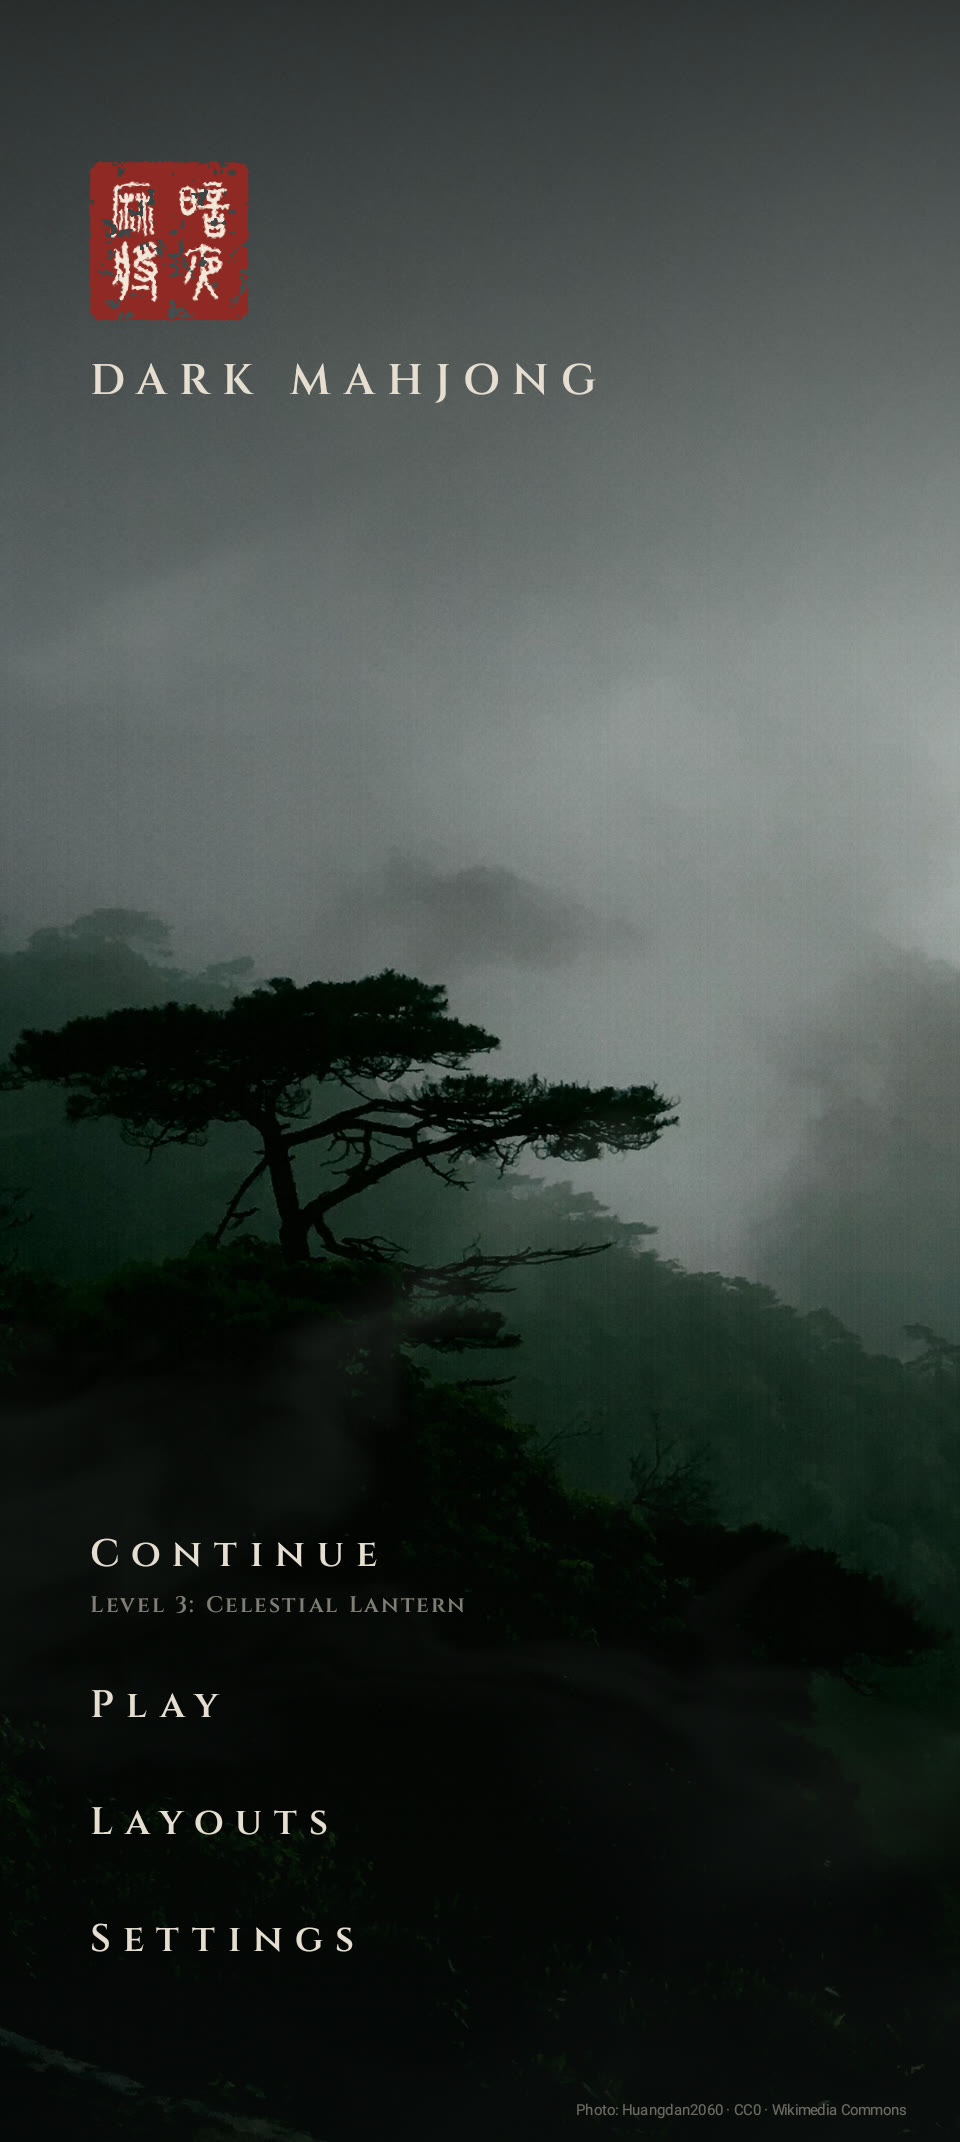
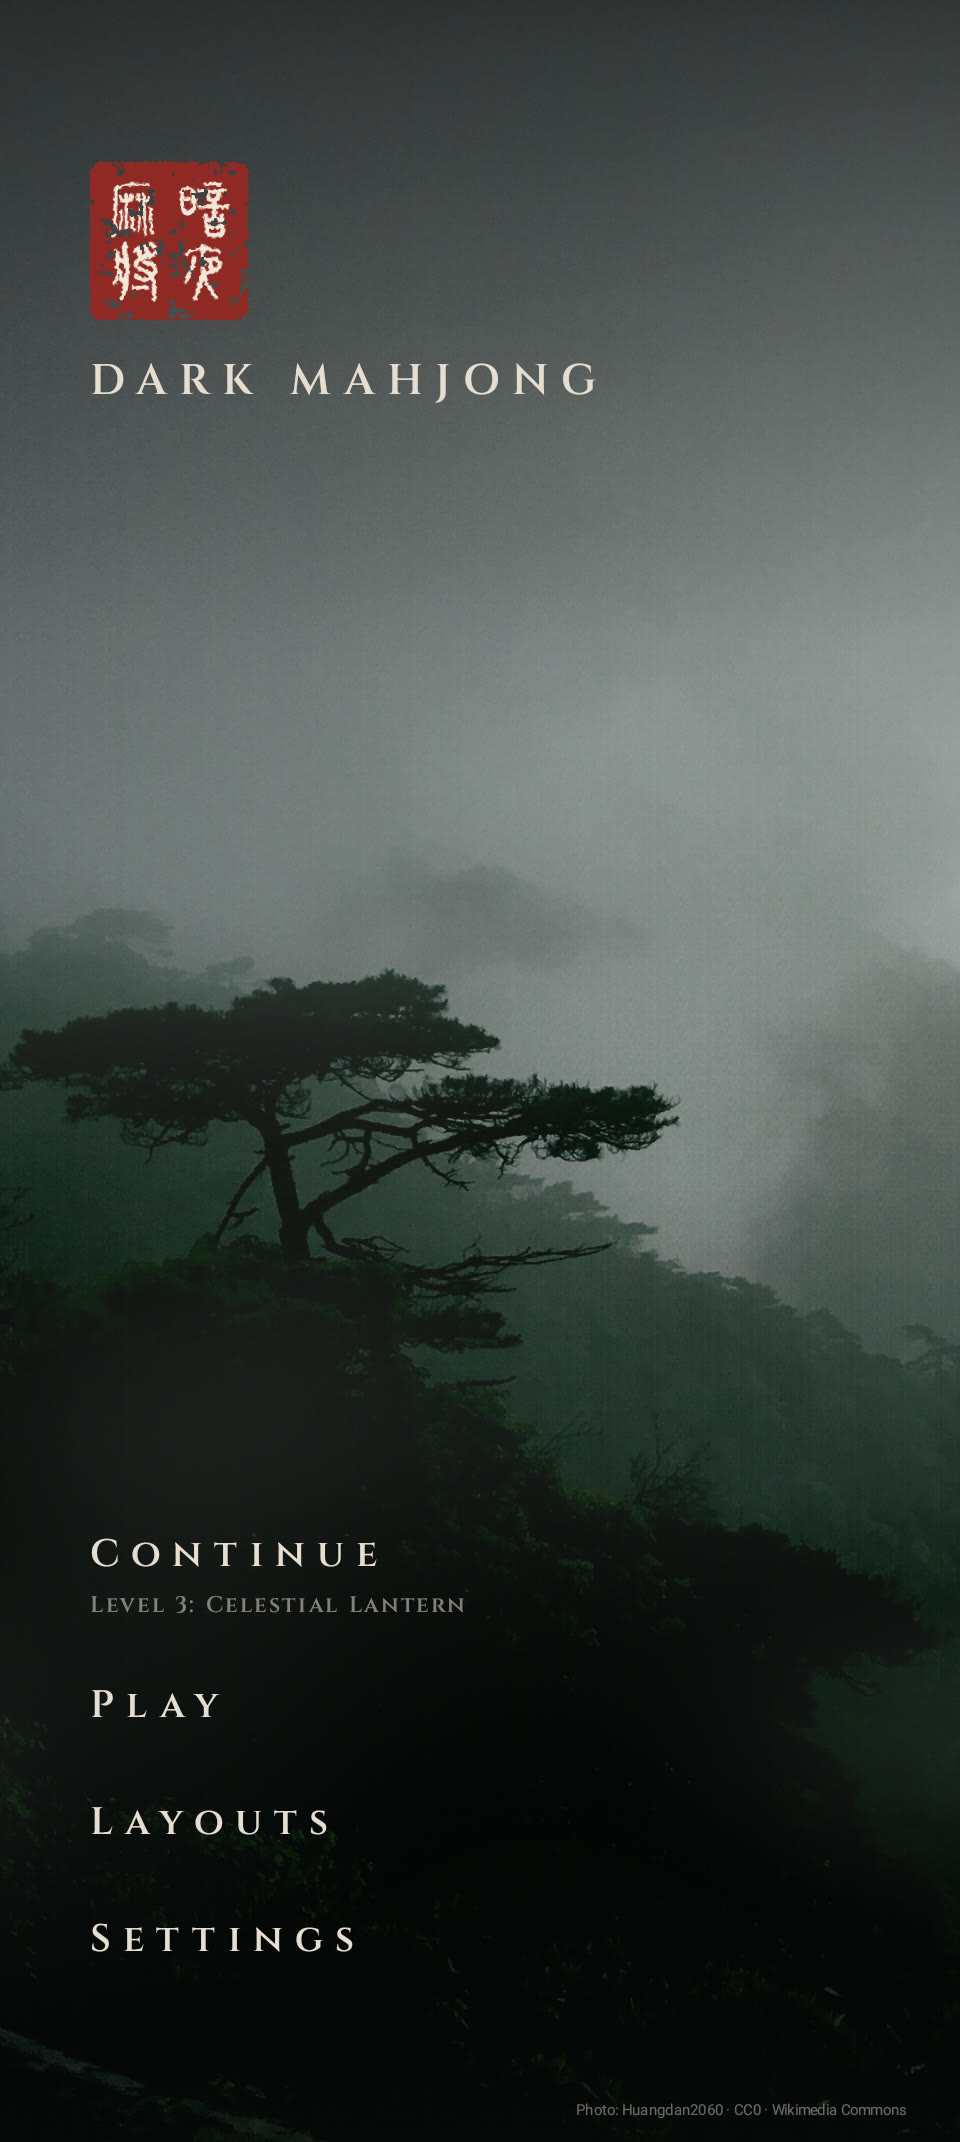
Title mist: large, soft banks drifting straight right to left
Rework the title fog after reviewing real-time samples: three layers of large,
soft mist masses (one to three screen-widths, gaps between them) that keep
their shape and travel slowly and straight from right to left, back layers
broader, paler and slower (parallax). No swirling folds and no bright wisps.
Sized and paced halfway between the two final samples. The fog-frames test
now renders 30 s at half-second steps for real-time clips; README title image
and fog animation refreshed.

Changed region(s): [[0.0, 0.4314, 0.5, 0.5238]]

diff --git a/app/src/main/java/com/vortessence/mahjong/ui/components/DriftingFog.kt b/app/src/main/java/com/vortessence/mahjong/ui/components/DriftingFog.kt
@@ -21,11 +21,12 @@ import kotlinx.coroutines.isActive
 import kotlin.math.roundToInt
 
 /**
- * Clouds of mist moving across the title photograph. Three layers at different depths and speeds
- * (broad slow banks behind, mid mist, quicker wisps in front), each billowing as it goes: its
- * shape is folded by noise fields that themselves evolve, so it churns rather than slides. Cloud
- * tops catch the sky's light, undersides are cooler; density becomes opacity the way real mist
- * thins (Beer-Lambert), so every edge is soft, and the band's own top and bottom are ragged.
+ * Large, soft masses of mist moving slowly and straight from right to left across the title
+ * photograph, in three layers composited back to front: each a procession of large masses (one to
+ * three screen-widths) with gaps between them; the furthest broadest, palest and slowest,
+ * nearer ones lower in the valley and a little quicker (parallax). Masses keep their shape as
+ * they travel (no swirling) and are soft and even, denser in their cores, with no bright wispy
+ * edges; each layer's top and bottom are ragged and travel with it.
  *
  * Fog has no fine detail, so it is rendered at a third of the screen resolution into its own
  * layer and smoothly scaled up, at about 30 fps. [startSeconds] fixes the moment shown, so
@@ -92,51 +93,64 @@ float vnoise(float2 p) {
                mix(hash21(i + float2(0.0, 1.0)), hash21(i + float2(1.0, 1.0)), u.x), u.y);
 }
 
+// Only broad octaves: large, soft masses with no fine wisps
 float fbm(float2 p) {
     float v = 0.0;
     float a = 0.5;
-    for (int i = 0; i < 5; i++) {
+    for (int i = 0; i < 3; i++) {
         v += a * vnoise(p);
-        p = p * 2.03 + float2(1.7, 9.2);
+        p = p * 2.07 + float2(1.7, 9.2);
         a *= 0.5;
     }
-    return v;
+    return v / 0.875;
 }
 
-// One cloud layer's density: drifting sideways while folding in on itself. The warp fields
-// evolve with time, so the cloud billows and churns instead of sliding as a fixed pattern
+// One layer of cloud masses. Each mass keeps its shape (a fixed, gentle warp gives it an
+// irregular outline) and the whole layer travels straight from right to left
 float cloud(float2 uv, float t, float speed, float scale, float seed) {
-    float2 q = float2(uv.x * scale + t * speed, uv.y * scale * 1.6 + seed);
-    float2 w1 = float2(fbm(q * 0.6 + float2(seed, t * 0.03)),
-                       fbm(q * 0.6 + float2(seed + 5.2, -t * 0.025)));
-    float2 w2 = float2(fbm(q + 2.0 * w1 + float2(1.7, 9.2) + t * 0.02),
-                       fbm(q + 2.0 * w1 + float2(8.3, 2.8) - t * 0.015));
-    return fbm(q + 2.2 * w2);
+    float2 q = float2(uv.x * scale + t * speed, uv.y * scale * 1.3 + seed);
+    float2 w = float2(fbm(q * 0.5 + seed) - 0.5, fbm(q * 0.5 + seed + 7.3) - 0.5) * 0.4;
+    return fbm(q + w);
+}
+
+// A band's weight at height y: soft, with ragged edges that travel with the clouds
+float band(float y, float lo, float hi, float2 uv, float t, float speed, float seed) {
+    float rag = (vnoise(float2(uv.x * 1.2 + t * speed + seed, 3.3)) - 0.5) * 0.16;
+    return smoothstep(lo - 0.16 + rag, lo + 0.14 + rag, y) * (1.0 - smoothstep(hi - 0.14 - rag, hi + 0.16 - rag, y));
+}
+
+// Composite one layer over what is behind it (premultiplied)
+float4 over(float4 back, float3 col, float a) {
+    return float4(col * a + back.rgb * (1.0 - a), a + back.a * (1.0 - a));
+}
+
+// Soft, even mist: a little denser in each mass's core, no bright edges
+float mass(float d, float lo, float hi) {
+    return smoothstep(lo, hi, d) * (0.75 + 0.25 * smoothstep(hi, hi + 0.15, d));
 }
 
 half4 main(float2 p) {
     float2 uv = p / res.y;
     float t = time;
-    // Three depths: broad slow banks, mid mist, quicker wisps in front (parallax)
-    float d1 = cloud(uv, t, 0.012, 1.1, 0.0);
-    float d2 = cloud(uv + 3.1, t, 0.022, 1.9, 11.0);
-    float d3 = cloud(uv + 7.4, t, 0.038, 3.2, 23.0);
-    float od = max(d1 - 0.42, 0.0) * 2.2 + max(d2 - 0.48, 0.0) * 1.5 + max(d3 - 0.56, 0.0) * 1.0;
-
-    // Heaviest in the valley; the band's top and bottom are ragged and shifting, never straight
     float y = p.y / res.y;
-    float rag = (vnoise(float2(uv.x * 2.2 + t * 0.02, 3.3)) - 0.5) * 0.16
-              + (vnoise(float2(uv.x * 6.0 - t * 0.03, 7.1)) - 0.5) * 0.06;
-    float band = smoothstep(0.04 + rag, 0.36 + rag, y) * (1.0 - smoothstep(0.56 - rag, 0.92 - rag, y));
-    od *= 0.25 + 0.75 * band;
+    float4 acc = float4(0.0);
 
-    // Density to opacity as real mist thins: soft everywhere, never a hard edge
-    float alpha = (1.0 - exp(-od * 1.7)) * 0.6;
+    // Three layers back to front, each a procession of large, soft masses with gaps between
+    // them, travelling straight leftwards. Screen speeds (in screen heights per second) rise
+    // towards the front for parallax. Noise speed = screen speed x scale keeps them in step
+    // Back: the broadest, palest banks
+    float s1 = 0.0055;
+    acc = over(acc, float3(0.68, 0.72, 0.71),
+        mass(cloud(uv, t, s1 * 0.62, 0.62, 0.0), 0.475, 0.7) * band(y, 0.14, 0.6, uv, t, s1 * 1.2, 0.0) * 0.45);
+    // Middle: broad masses through the valley
+    float s2 = 0.008;
+    acc = over(acc, float3(0.60, 0.65, 0.64),
+        mass(cloud(uv + 3.1, t, s2 * 0.91, 0.91, 11.0), 0.495, 0.72) * band(y, 0.26, 0.74, uv, t, s2 * 1.2, 4.0) * 0.5);
+    // Front: nearer masses, lowest, over the forest
+    float s3 = 0.0102;
+    acc = over(acc, float3(0.53, 0.58, 0.57),
+        mass(cloud(uv + 7.4, t, s3 * 1.27, 1.27, 23.0), 0.52, 0.74) * band(y, 0.42, 0.9, uv, t, s3 * 1.2, 9.0) * 0.475);
 
-    // Light from the sky above: tops brighter, undersides cooler and greyer
-    float above = cloud(uv - float2(0.0, 0.025), t, 0.012, 1.1, 0.0);
-    float lit = clamp(0.62 + (d1 - above) * 5.0, 0.25, 1.0);
-    float3 col = mix(float3(0.40, 0.45, 0.45), float3(0.72, 0.76, 0.74), lit);
-    return half4(half3(col * alpha), half(alpha));
+    return half4(acc);
 }
 """

diff --git a/app/src/test/java/com/vortessence/mahjong/screenshots/ScreenshotTour.kt b/app/src/test/java/com/vortessence/mahjong/screenshots/ScreenshotTour.kt
@@ -138,7 +138,7 @@ class ScreenshotTour {
         shoot("settings")
     }
 
-    /** Frames of the title fog a second apart, for a short clip of it drifting. */
+    /** Frames of the title fog half a second apart over 30 seconds, for a real-speed clip. */
     @Test
     fun titleFogFrames() {
         var t by mutableFloatStateOf(0f)
@@ -150,8 +150,8 @@ class ScreenshotTour {
                 )
             }
         }
-        for (i in 0 until 30) {
-            t = i.toFloat()
+        for (i in 0 until 61) {
+            t = i * 0.5f
             compose.waitForIdle()
             compose.onRoot().captureRoboImage("build/screenshots/fog/frame_%02d.png".format(i))
         }

diff --git a/docs/DESIGN.md b/docs/DESIGN.md
@@ -53,11 +53,9 @@ A family of **AGSL fragment shaders**, one palette per journey chapter: e.g. mid
 ### Title screen
 
 - **Photo:** full-bleed, darkened, misty Chinese mountains, cropped to a tall portrait frame with the lone pine in the middle: *Sanqing Mountain is surrounded by clouds and mists* (Huangdan2060, CC0, Wikimedia Commons). Scaled uniformly and never stretched, with subtle film grain (AGSL). A tiny courtesy credit sits bottom-right.
-- **Moving cloud:** three AGSL layers at different depths and speeds (broad slow banks, mid mist, quicker wisps in front).
-  - **Billowing:** each layer is folded by noise fields that themselves evolve, so the cloud churns rather than slides.
-  - **Light:** tops catch the sky's light, undersides are cooler.
-  - **Soft edges:** density becomes opacity as real mist thins (Beer-Lambert), and the band's top and bottom are ragged and shifting.
-  - **Cost:** rendered at a third of the screen resolution and smoothly scaled up, at about 30 fps.
+- **Moving cloud:** three AGSL layers of large, soft mist masses (one to three screen-widths, with gaps between them) travelling slowly and straight from right to left. The back layer is broadest, palest and slowest; nearer layers sit lower in the valley and move a little faster.
+  - **Shape:** masses keep their shape as they travel (no swirling), soft and even and denser in their cores, with no bright wisps. Each layer's ragged top and bottom travel with it.
+  - **Cost:** rendered at a third of the screen resolution and smoothly scaled up, at about 30 fps. Tuned with Gareth through real-time MP4 samples on 2026-10-26.
 - **Top, over the misty sky:** the **暗夜麻將** name seal (seal script, from Taiwan's CNS 11643 說文解字 font, subset; white on deep vermilion with carved-stone wear) and "DARK MAHJONG" in **Cinzel**, 19sp.
 - **Bottom, over the dark forest:** a plain text menu in Cinzel 17sp, left-aligned (Continue · Play · Layouts · Settings). Items brighten while pressed and give a soft click plus a light haptic.
 

diff --git a/README.md b/README.md
@@ -22,7 +22,7 @@ Dark Mahjong is a fork of **[Mahjong Solitaire by PcmciaKai](https://github.com/
 
 ### A darker ambience
 - **One lamp over the table.** The table is lit by a single warm lamp and the room falls away into darkness. Tiles and tabletop share the same light, brightest in the middle and dim at the edges, but never too dark to read a tile.
-- **A misty title screen.** A real photograph of Sanqing Mountain in cloud, darkened, with subtle film grain and live clouds of mist billowing slowly across it (an AGSL shader). Above it sits a name seal, **暗夜麻將** ("dark-night mahjong"), in genuine seal script.
+- **A misty title screen.** A real photograph of Sanqing Mountain in cloud, darkened, with subtle film grain and large, soft banks of mist drifting slowly across it (an AGSL shader). Above it sits a name seal, **暗夜麻將** ("dark-night mahjong"), in genuine seal script.
 - **Dark everywhere else too.** One quiet colour palette, minimalist menus, no light theme.
 
 ### A different look
